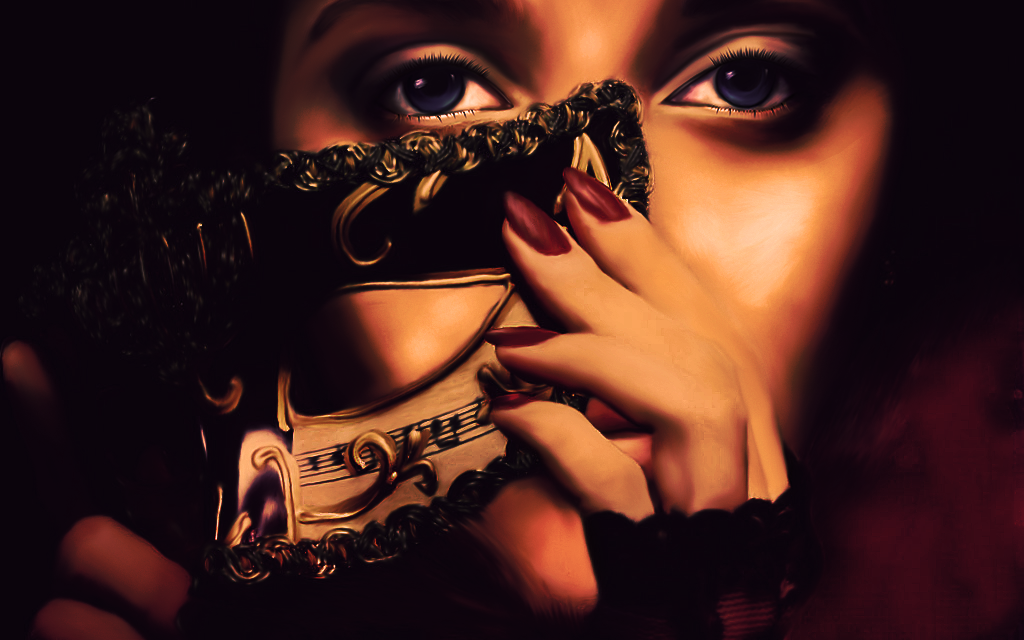
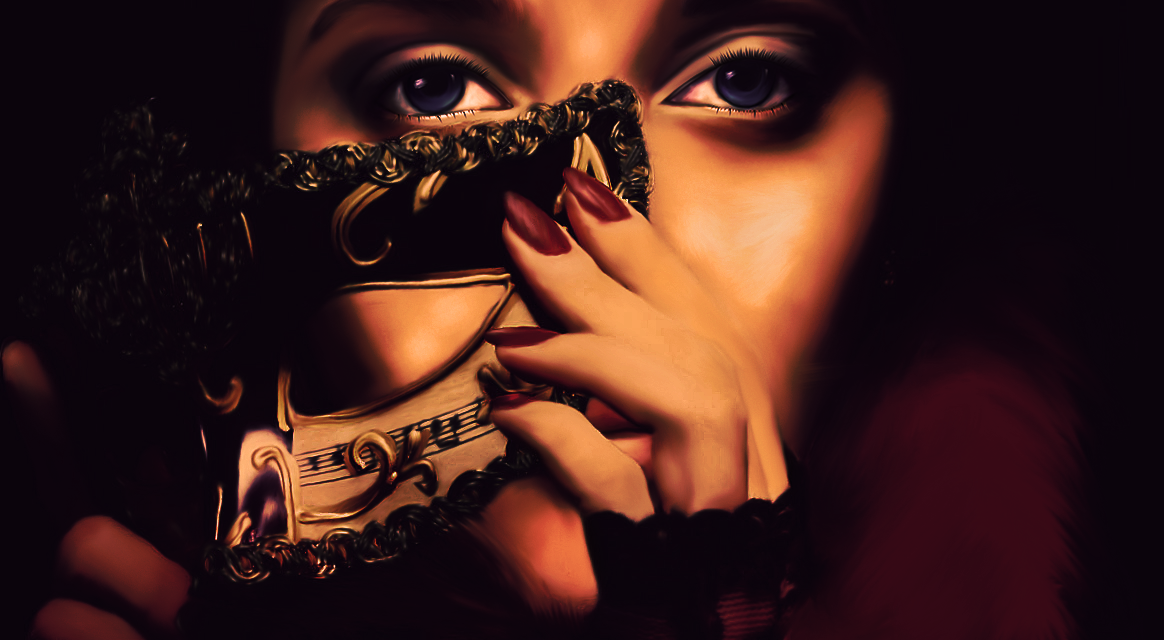
Updated wallpaper

diff --git a/resources/assets/sass/app.scss b/resources/assets/sass/app.scss
@@ -32,6 +32,8 @@ body {
 // INTRO
 .intro {
   background-image: url("/img/wallpapers/header_secret.png");
+  background-size: contain;
+  background-color: #0b040c;
 }
 
 .intro, .content-wrap {
